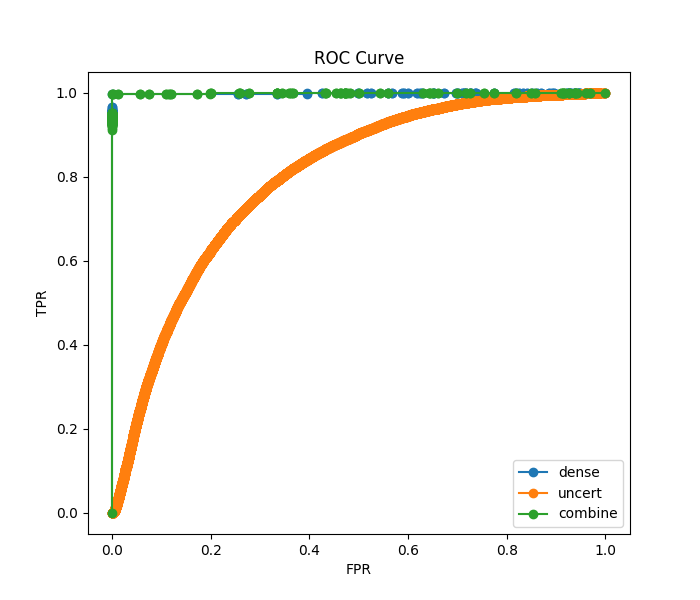
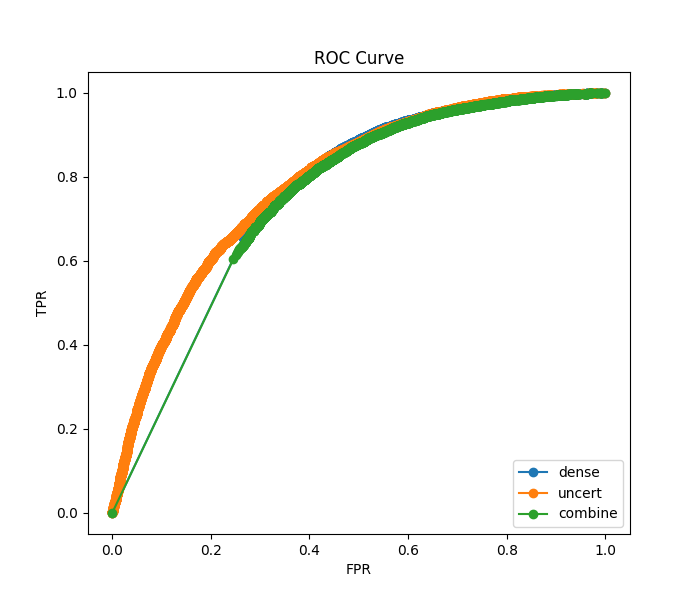
Entropy

Changed region(s): [[0.15, 0.15, 0.87, 0.57], [0.15, 0.66, 0.24, 0.87], [0.24, 0.6, 0.27, 0.66]]

diff --git a/scripts/detect_adv_samples.py b/scripts/detect_adv_samples.py
@@ -62,7 +62,7 @@ def evaluate_test(args, model, kdes, datatypes, nb_size):
     print('[Test] Getting Monte Carlo dropout variance predictions...')
     uncerts = {}
     for datatype in datatypes:
-        uncerts[datatype] = get_mc_predictions(model, test_loader[datatype], nb_iter=nb_size)#, method='entropy')
+        uncerts[datatype] = get_mc_predictions(model, test_loader[datatype], nb_iter=nb_size, method=args.uncert)
 
     ################# Get KDE scores
     # Get deep feature representations
@@ -91,7 +91,7 @@ def evaluate_test(args, model, kdes, datatypes, nb_size):
         densities[datatype] = score_samples(
             kdes,
             features[datatype].cpu(),
-            pres[datatype].cpu()
+            preds[datatype].cpu()
         )
     ###### Z-score the uncertainty and density values
     ###### normalize
@@ -116,11 +116,13 @@ def evaluate_test(args, model, kdes, datatypes, nb_size):
     values  = {}
     labels  = {}
     for flag in flags:
-        tmp_values, tmp_labels, tmp_lr = get_value(
-            densities_pos = densities_z['adversarial'],
-            densities_neg = np.concatenate((densities_z['normal'], densities_z['noisy'])),
-            uncerts_pos = uncerts_z['adversarial'],
-            uncerts_neg = np.concatenate((uncerts_z['normal'], uncerts_z['noisy'])),
+        tmp_values, tmp_labels = get_value(
+            densities_pos   = densities_z['adversarial'],
+            densities_neg   = np.concatenate((densities_z['normal'], densities_z['noisy'])),
+            uncerts_pos     = uncerts_z['adversarial'],
+            uncerts_neg     = np.concatenate((uncerts_z['normal'], uncerts_z['noisy'])),
+            #entro_pos       = entro_z['adversarial'],
+            #entro_neg       = np.concatenate((entro_z['normal'], entro_z['noisy'])),
             flag = flag
         )
         values[flag] = tmp_values
@@ -253,12 +255,12 @@ def main(args):
 
     ###########################################################################################################################################
     ################# Get Bayesian uncertainty scores
-    nb_size = 2
+    nb_size = 50
     print('Getting Monte Carlo dropout variance predictions...')
     uncerts = {}
     test_uncerts = {}
     for datatype in datatypes:
-        uncerts[datatype] = get_mc_predictions(model, picked_train_loader[datatype], nb_iter=nb_size)#, method='entropy')
+        uncerts[datatype] = get_mc_predictions(model, picked_train_loader[datatype], nb_iter=nb_size, method=args.uncert)
 
     ################# Get KDE scores
     # Get deep feature representations
@@ -356,7 +358,6 @@ def main(args):
         values[flag] = tmp_values
         labels[flag] = tmp_labels
         lrs[flag] = tmp_lr
-
     test_values, test_labels, test_num = evaluate_test(args, model, kdes, datatypes, nb_size)
 
     ## Evaluate detector
@@ -380,7 +381,8 @@ def main(args):
 
     _, _, auc_score = compute_roc(
         prob_datas,
-        plot=True
+        plot=True,
+        name=args.pic_name
     )
 
 
@@ -414,6 +416,17 @@ if __name__ == "__main__":
         help="do on test dataset",
         action='store_true',
         required=False,
+    )
+    parser.add_argument(
+        '-u', '--uncert',
+        help="uncertainty type",
+        default='default',
+        required=False, type=str
+    )
+    parser.add_argument(
+        '--pic_name',
+        default='result',
+        required=False, type=str
     )
     parser.set_defaults(batch_size=256)
     args = parser.parse_args()
